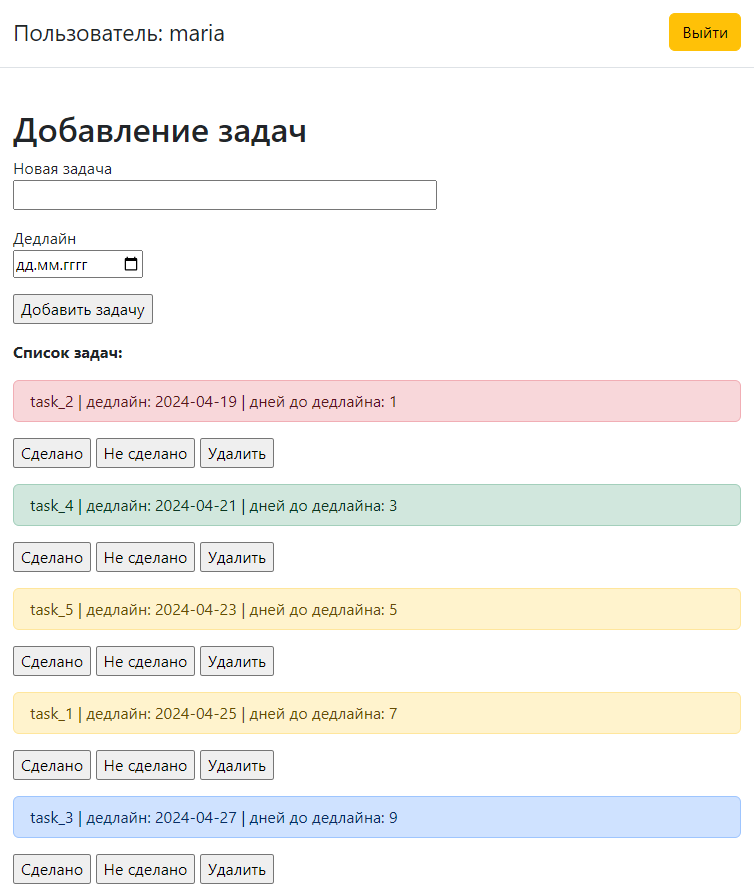
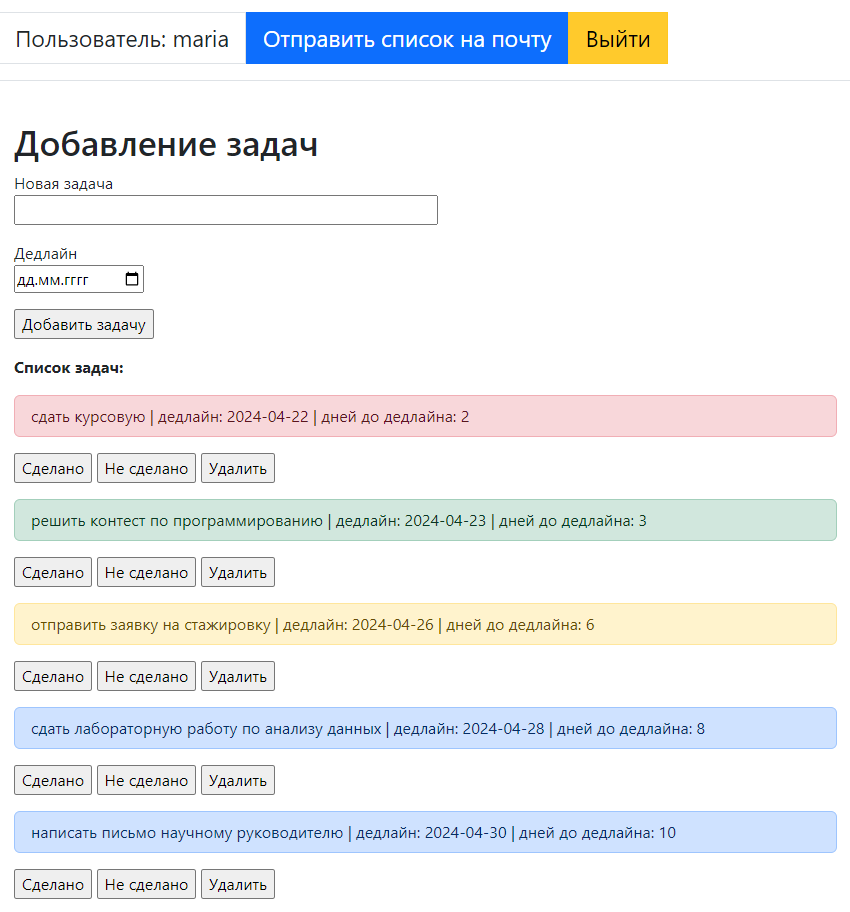
send email added

diff --git a/app/templates/base.html b/app/templates/base.html
@@ -18,11 +18,15 @@
         </ul>
         {% endif %}
         {% endwith %}    
-        <header class="d-flex flex-wrap align-items-center justify-content-center justify-content-md-between py-3 mb-4 border-bottom p-3">
+        
+        <header class="d-flex flex-wrap align-items-center justify-content-center justify-content-md-between py-3 mb-4 border-bottom">
+            <ul class="list-group list-group-horizontal">
             {% if current_user.is_authenticated %}
-                <span class="fs-4">Пользователь: {{ current_user.username }}</span>
-                <a href="{{ url_for('logout')}}" class="btn btn-warning">Выйти</a>
+                <li><span class="list-group-item fs-4">Пользователь: {{ current_user.username }}</span></li>
+                <li><a href="{{ url_for('send_email')}}" class="list-group-item fs-4 btn btn-warning active" aria-current="true">Отправить список на почту</a></li>
+                <li><a href="{{ url_for('logout')}}" class="list-group-item fs-4 btn btn-warning">Выйти</a></li>
             {% endif %}
+            </ul>
         </header>
         {% block content %}{% endblock %}
     </body>

diff --git a/app/templates/email/send_deadline_list.html b/app/templates/email/send_deadline_list.html
@@ -1,0 +1,17 @@
+<!doctype html>
+<html>
+    <body>
+
+    <p>Привет {{ user.username }}!</p>
+
+    <p><b>Твой список дедлайнов:</b></p>
+
+    <ul>
+    {% for task in deadline_list %}
+
+        <li>{{ task.task }} | дедлайн: {{ task.date.date() }}</li>
+
+    {% endfor %}
+    </ul>
+    </body>
+</html>

diff --git a/app/templates/login.html b/app/templates/login.html
@@ -2,7 +2,7 @@
 
 {% block content %}
     <h1>Вход</h1>
-    <form action="" method="post" novalidate>
+    <form action="" method="post" novalidate class="p-3">
         {{ form.hidden_tag() }}
         <p>
             {{ form.username.label }}<br>

diff --git a/app/templates/register.html b/app/templates/register.html
@@ -2,7 +2,7 @@
 
 {% block content %}
     <h1>Регистрация</h1>
-    <form action="" method="post">
+    <form action="" method="post" class="p-3">
         {{ form.hidden_tag() }}
         <p>
             {{ form.username.label }}<br>

diff --git a/app/routes.py b/app/routes.py
@@ -1,12 +1,12 @@
-from app import app
+from app import app, db, mail
 from flask import render_template, flash, redirect, url_for, request
 from app.forms import CreateTaskForm, StatusDoneForm, StatusNotDoneForm, DeleteTaskForm, LoginForm, RegistrationForm
 from flask_login import current_user, login_user, logout_user, login_required
 import datetime
 import sqlalchemy as sa
-from app import db
 from app.models import Task, User
 from urllib.parse import urlsplit
+from app.email import send_deadline_list
 
 @app.route('/')
 @login_required
@@ -17,14 +17,13 @@ def home():
     delete_form = DeleteTaskForm()
     today = datetime.date.today()
     deadline_list = db.session.scalars(sa.select(Task).where(Task.user_id==current_user.id).order_by(Task.date)).all()
-    #deadline_list = db.session.scalars(current_user.tasks.select())
     return render_template('deadline_list.html', title='Deadline List', create_form=create_form, status_done_form=status_done_form, status_not_done_form=status_not_done_form, delete_form=delete_form, deadline_list=deadline_list, today=today)
 
 @app.route('/create', methods=['POST'])
+@login_required
 def create():
     create_form = CreateTaskForm()
     if create_form.validate_on_submit():
-        # добавить задачу
         task = Task(task=create_form.task.data, date=create_form.date.data, user_id=current_user.id)
         db.session.add(task)
         db.session.commit()
@@ -33,6 +32,7 @@ def create():
     return redirect(url_for('home'))
 
 @app.route('/done/<id>', methods=['POST'])
+@login_required
 def done(id):
     status_done_form = StatusDoneForm()
     if status_done_form.validate_on_submit():
@@ -44,6 +44,7 @@ def done(id):
     return redirect(url_for('home'))
 
 @app.route('/not_done/<id>', methods=['POST'])
+@login_required
 def not_done(id):
     status_not_done_form = StatusNotDoneForm() 
     if status_not_done_form.validate_on_submit():
@@ -55,6 +56,7 @@ def not_done(id):
     return redirect(url_for('home'))
 
 @app.route('/delete/<id>', methods=['POST'])
+@login_required
 def delete(id):
     delete_form = DeleteTaskForm()
     if delete_form.validate_on_submit():
@@ -102,3 +104,10 @@ def register():
         flash('Поздравляю, вы зарегистрированы!')
         return redirect(url_for('login'))
     return render_template('register.html', title='Регистрация', form=form)
+
+@login_required
+@app.route('/send_email', methods=['GET', 'POST'])
+def send_email():
+    deadline_list = db.session.scalars(sa.select(Task).where(Task.user_id==current_user.id).order_by(Task.date)).all()
+    send_deadline_list(current_user, deadline_list)
+    return redirect(url_for('home'))

diff --git a/app/email.py b/app/email.py
@@ -1,0 +1,20 @@
+from flask_mail import Message
+from app import app, mail
+from flask import render_template
+
+def send_email(subject, sender, recipients, text_body, html_body):
+    msg = Message(subject, sender=sender, recipients=recipients)
+    msg.body = text_body
+    msg.html = html_body
+    mail.send(msg)
+
+
+def send_deadline_list(user, deadline_list):
+    send_email(
+        'Ваш список дедлайнов',
+        sender=app.config['ADMINS'][0],
+        recipients=[user.email],
+        text_body=render_template('email/send_deadline_list.txt',
+                                    user=user, deadline_list=deadline_list),
+        html_body=render_template('email/send_deadline_list.html',
+                                    user=user, deadline_list=deadline_list))        

diff --git a/config.py b/config.py
@@ -5,3 +5,9 @@ class Config:
     SECRET_KEY = os.environ.get('SECRET_KEY') or 'you-will-never-guess'
     SQLALCHEMY_DATABASE_URI = os.environ.get('DATABASE_URL') or \
         'sqlite:///' + os.path.join(basedir, 'app.db')
+    MAIL_SERVER = os.environ.get('MAIL_SERVER')
+    MAIL_PORT = int(os.environ.get('MAIL_PORT') or 25)
+    MAIL_USE_TSL = os.environ.get('MAIL_USE_TSL') is not None
+    MAIL_USERNAME = os.environ.get('MAIL_USERNAME')
+    MAIL_PASSWORD = os.environ.get('MAIL_PASSWORD')
+    ADMINS = ['your_email@example.com']

diff --git a/app/__init__.py b/app/__init__.py
@@ -4,6 +4,7 @@ from flask_sqlalchemy import SQLAlchemy
 from flask_migrate import Migrate
 from flask_login import LoginManager
 from sqlalchemy import MetaData
+from flask_mail import Mail
 
 app = Flask(__name__)
 app.config.from_object(Config)
@@ -22,6 +23,7 @@ migrate = Migrate(app, db, render_as_batch=True)
 
 login = LoginManager(app)
 login.login_view = 'login'
+mail = Mail(app)
 
 from app import routes, models
 with app.app_context():

diff --git a/app/forms.py b/app/forms.py
@@ -45,3 +45,4 @@ class RegistrationForm(FlaskForm):
             User.email == email.data))
         if user:
             raise ValidationError('Пожалуйста, выберите другой email адрес')
+        

diff --git a/README.md b/README.md
@@ -1,7 +1,8 @@
 # Список дедлайнов
 
 Веб-приложение на фреймворке Flask для ведения списка задач с дедлайнами.\
-Приложение многопользовательское. Присутствует регистрация и вход по учетной записи. Каждый пользователь создает свой список задач, доступный только ему
+Приложение многопользовательское. Присутствует регистрация и вход по учетной записи. Каждый пользователь создает свой список задач, доступный только ему.\
+Список задач можно отправить на почту, указанную при регистрации.
 
 ## Интерфейс:
 
@@ -12,12 +13,12 @@
 - Чтобы выйти из учетной записи и вернуться на страницу входа, нажать "выйти"
 - На домашней странице отображается имя пользователя и список его задач
 - Чтобы добавить задачу, необходимо заполнить две формы - текст задачи и дата дедлайна по ней. Нажать "Добавить задачу"
-- По мере добавления, задачи будут появляться в списке 
-- Возле каждой задачи указана дата дедлайна, а также количество дней, оставшихся до него
+- Задачи будут появляться в списке. Возле каждой задачи указана дата дедлайна, а также количество дней, оставшихся до него
 - Задачи сортируются от наиболее к наименее срочным. Сверху списка задачи, по которым осталось меньше всего дней до дедлайна
 - Срочность задач выделена цветом. Красным: до дедлайна менее 3 дней, желтым: менее недели, синим: больше недели
 - Рядом с каждой задачей есть кнопки для изменения статуса. Задачи можно переводить в статус "выполнено" - тогда цвет выделения изменится на зеленый. А также возвращать в статус "не выполнено"
 - Задачи можно удалять из списка
+- Пользователь может отправить список задач на почту, указанную при регистрации. Для этого нажать на кнопку вверху страницы
 
 ## Запуск приложения
 Сборка с помощью Docker
